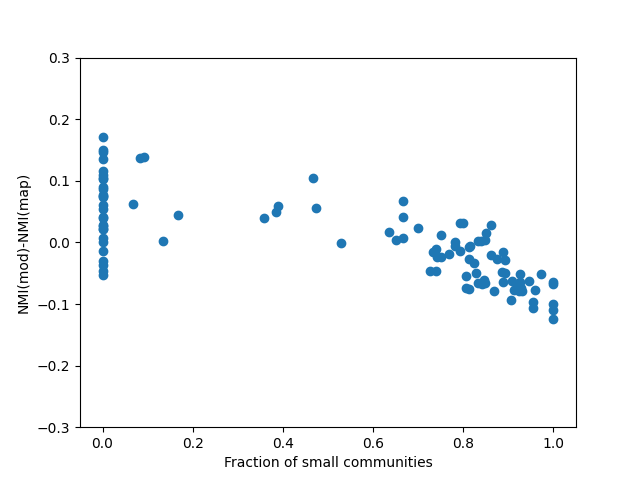
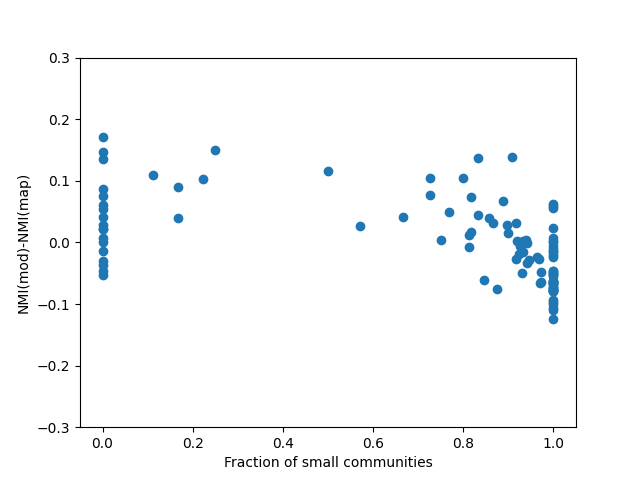
werkend regressie

diff --git a/experiment/plotscatter.py b/experiment/plotscatter.py
@@ -1,6 +1,8 @@
 import matplotlib.pyplot as plt
 import math
 import json
+import numpy as np
+from sklearn.linear_model import LinearRegression
 
 
 def read_results2():
@@ -54,19 +56,20 @@ def plot_results_2(mus, comrange,num_runs, results, eigenschap):
             verschil = mo - ma
             y.append(verschil)
             comsizes = results[(mu,com,str(run))]
+            z = 25 #size of biggest smallest community
             
             l = len(comsizes)
             if eigenschap == 'num_small':
                 aantal = 0
                 for i in range(l):
-                    if 5 <= comsizes[i] <= 25:
+                    if 5 <= comsizes[i] <= z:
                         aantal += 1
                 eig = aantal
                 naam = 'Number of small communities'
             if eigenschap == 'frac_small':
                 aantal = 0
                 for i in range(l):
-                    if 5 <= comsizes[i] <= 25:
+                    if 5 <= comsizes[i] <= z:
                         aantal += 1
                 eig = aantal/l
                 naam = 'Fraction of small communities'
@@ -88,18 +91,40 @@ def plot_results_2(mus, comrange,num_runs, results, eigenschap):
                 eig = max(comsizes)
                 naam = 'Size of largest community'
             x.append(eig)
-    plt.scatter(x, y)
-    plt.xlabel(naam)
-    plt.ylabel('NMI(mod)-NMI(map)')
-    #plt.title('Objective function: modularity')   
-    plt.ylim(-0.3,0.3)
-    plt.savefig('plot'+eigenschap+'.png') 
-    plt.show() 
+    #plt.scatter(x, y)
+    #plt.xlabel(naam)
+    #plt.ylabel('NMI(mod)-NMI(map)') 
+    #plt.ylim(-0.3,0.3)
+    #plt.savefig('plot'+eigenschap+'.png') 
+    #plt.show() 
+    return x,y
      
     
 
 mus, comrange,num_runs, results = read_results2()
 #eigenschappen = ['num_small', 'frac_small', 'av_size', 'range', 'num_coms', 'smallest_comsize', 'largest_comsize']
-eigenschappen = ['num_small', 'frac_small', 'num_coms']
+#eigenschappen = ['num_small', 'frac_small', 'num_coms']
+eigenschappen = ['num_small']
+#eigenschappen = ['num_coms']
 for i in eigenschappen:
-    plot_results_2(mus, comrange,num_runs, results, i)
+    x,y = plot_results_2(mus, comrange,num_runs, results, i)
+    x = np.array(x).reshape((-1,1))
+    y = np.array(y)
+    model = LinearRegression().fit(x, y)
+    r_sq = model.score(x, y)
+    print(f"coefficient of determination: {r_sq}")
+    print(f"intercept: {model.intercept_}")
+    print(f"slope: {model.coef_}")
+    
+    def regressie(x, intercept, coef):
+        return x*coef+intercept
+    
+    plt.scatter(x, y)
+    plt.plot(x, regressie(x,model.intercept_, model.coef_[0]), color = 'r', label='y='+str(round(model.coef_[0],5))+'x+'+str(round(model.intercept_,5)))
+    plt.xlabel(i)
+    plt.ylabel('NMI(mod)-NMI(map)')  
+    plt.ylim(-0.3,0.3)
+    plt.legend()
+    plt.title('R-squared value: '+str(round(r_sq,5)))
+    plt.savefig('plot'+i+'regressie'+'.png') 
+    plt.show() 
